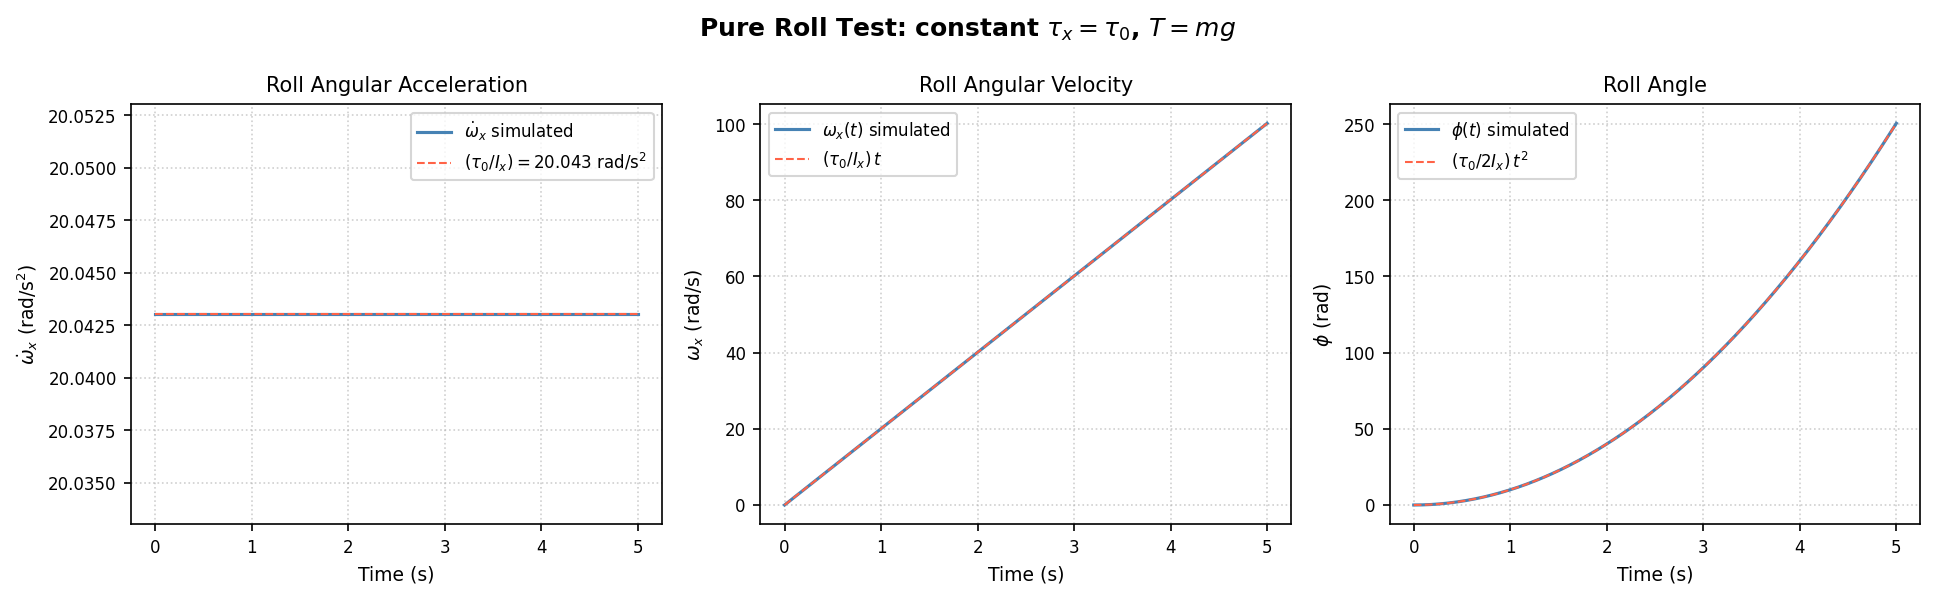
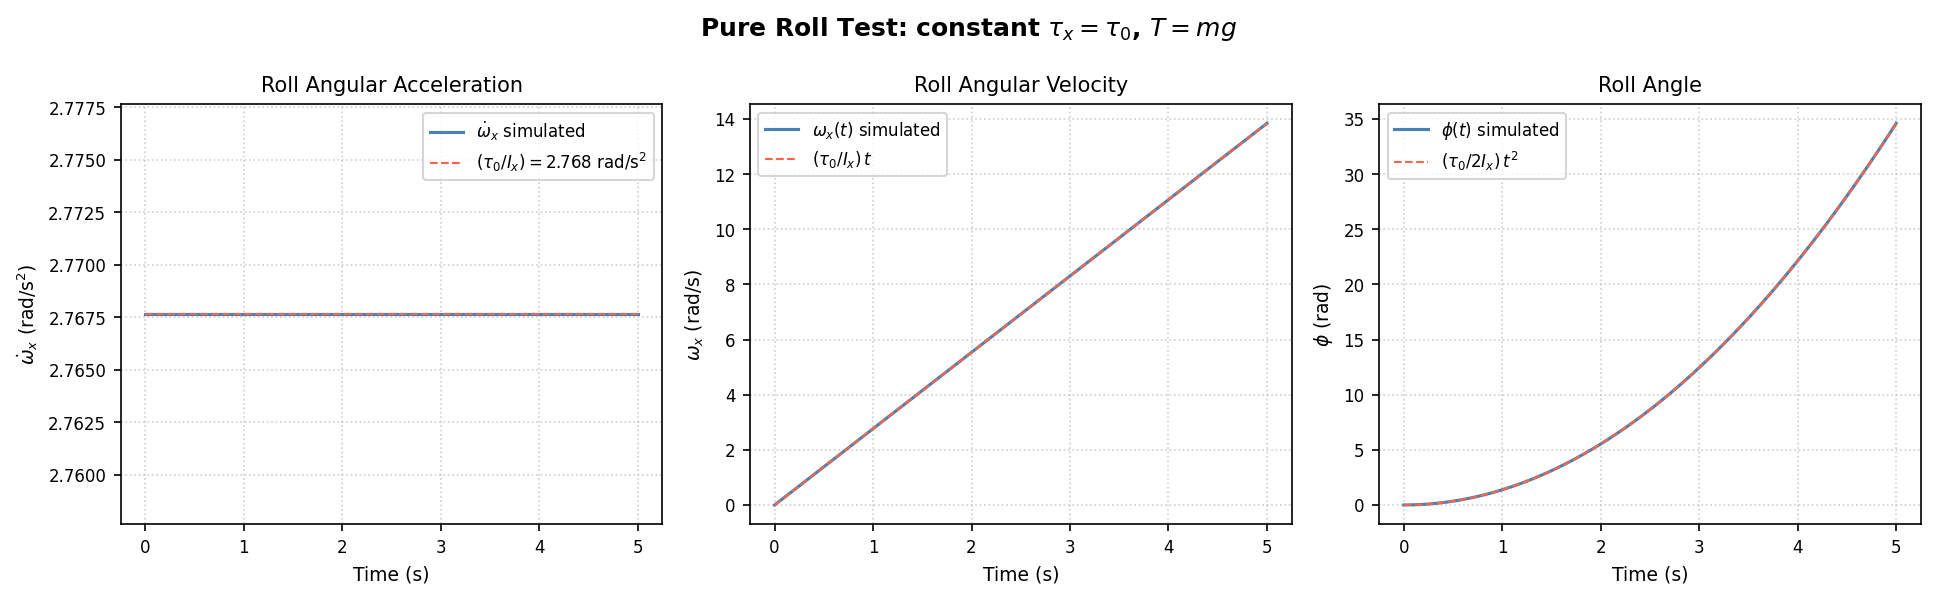
moment of inertia params updated

diff --git a/src/quadrotor/params.py b/src/quadrotor/params.py
@@ -10,10 +10,10 @@ class Quadrotorparams:
     g: float = 9.81 # gravitational acceleration (m.s^(-2))
 
     # moments of inertia (these are hyperparameters which we shall need to tune within the model...the intuition is to keep these reasonably small as the moments of inertia describe how 'difficult' it would be to rotate the drone in that direction...there is obviously stability/maneuverability trade-off here): 
-    # From A S Sanca et al. 2008: I_x = 2/5.M_sphere.r^2 + 2.l^2.M_rotor = I_y; I_z = 2/5.M_sphere.r^2 + 4.l^2.M_rotor. For the F450 proposed drone frame, we would have l = 0.159m, M_rotor = 0.069kg. M_sphere = M_total - 4M_rotor = 1kg - 0.276 = 0.724kg. Estimated thickness of drone = 160mm, thus r = 0.08m
-    I_x: float = 0.005342
-    I_y: float = 0.005342
-    I_z: float = 0.008831
+    # From A S Sanca et al. 2008: I_x = 2/5.M_sphere.r^2 + 2.l^2.M_rotor = I_y; I_z = 2/5.M_sphere.r^2 + 4.l^2.M_rotor. For the F450 proposed drone frame, we would have l = 0.225m, M_rotor = 0.069kg. M_sphere = M_total - 4M_rotor = 1kg - 0.276 = 0.724kg. Estimated thickness of drone = 160mm, thus r = 0.08m
+    I_x: float = 0.0083969
+    I_y: float = 0.0083969
+    I_z: float = 0.06395344
 
     # drone dimensions and torque-thrust ratio:
 
